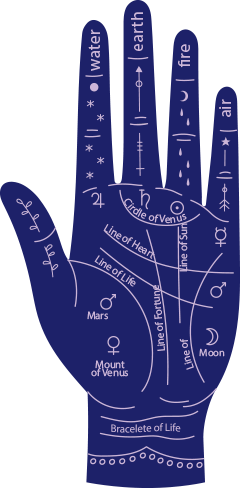
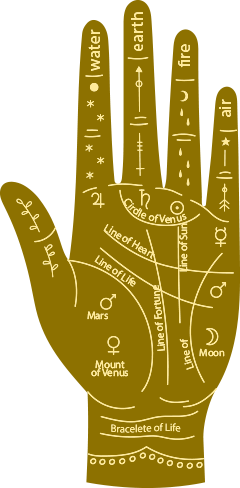
theme fix

diff --git a/assets/css/style.css b/assets/css/style.css
@@ -4650,3 +4650,14 @@ section.as_testimonial_wrapper {
 .as_service_box:hover h4, .as_service_box:hover p {
     color: #000000 !important;
 }
+
+/* Service Box Icons around Hand */
+.as_service_inner_icon svg,
+.as_service_inner_icon svg * {
+    fill: #d4a967 !important;
+    transition: fill 0.3s ease-in-out;
+}
+.as_service_box:hover .as_service_inner_icon svg,
+.as_service_box:hover .as_service_inner_icon svg * {
+    fill: #000000 !important;
+}